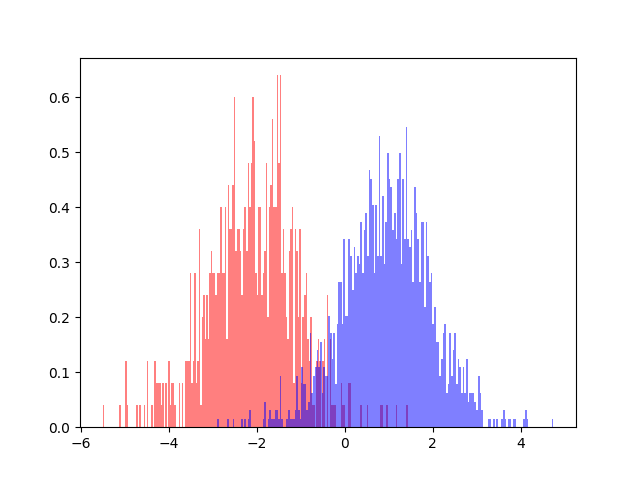
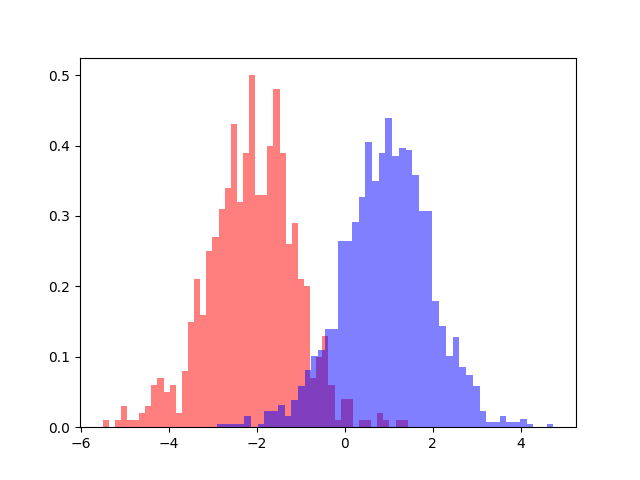
updated settings of plot

diff --git a/plots.py b/plots.py
@@ -81,7 +81,7 @@ def lda_direction_histogram(lda: lda) -> None:
   if lda.is_preprocessed is False:
      lda.process()
   for i in range(lda.data.shape[0]):
-    plt.hist(lda.data[i, lda.labels==0], bins=200, color='red', label='F', density=True, alpha=0.5)
-    plt.hist(lda.data[i, lda.labels==1], bins=200, color='blue', label='T', density=True, alpha=0.5)
+    plt.hist(lda.data[i, lda.labels==0], bins=50, color='red', label='F', density=True, alpha=0.5)
+    plt.hist(lda.data[i, lda.labels==1], bins=50, color='blue', label='T', density=True, alpha=0.5)
     plt.savefig('./plots/lda/lda_plot')
     plt.clf()
